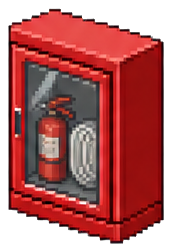
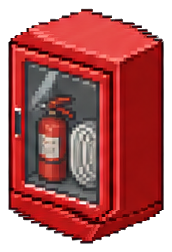
修正手機觸控流程與設施資產方向

Changed region(s): [[0.0581, 0.8333, 0.9593, 0.9722], [0.0291, 0.0278, 0.9593, 0.1667]]

diff --git a/src/ui/components/TouchControls.ts b/src/ui/components/TouchControls.ts
@@ -84,16 +84,28 @@ export class TouchControls {
 
     stick.addEventListener("pointerdown", (event) => {
       event.preventDefault();
+      event.stopPropagation();
       this.options.onUnlockAudio();
       stick.setPointerCapture(event.pointerId);
       stick.classList.add("is-active");
       updateStick(event);
     });
     stick.addEventListener("pointermove", (event) => {
-      if (stick.hasPointerCapture(event.pointerId)) updateStick(event);
+      if (!stick.hasPointerCapture(event.pointerId)) return;
+      event.preventDefault();
+      event.stopPropagation();
+      updateStick(event);
     });
-    stick.addEventListener("pointerup", releaseStick);
-    stick.addEventListener("pointercancel", releaseStick);
+    stick.addEventListener("pointerup", (event) => {
+      event.preventDefault();
+      event.stopPropagation();
+      releaseStick();
+    });
+    stick.addEventListener("pointercancel", (event) => {
+      event.preventDefault();
+      event.stopPropagation();
+      releaseStick();
+    });
     stick.addEventListener("lostpointercapture", releaseStick);
 
     this.options.root
@@ -101,8 +113,17 @@ export class TouchControls {
       .forEach((button) => {
         button.addEventListener("pointerdown", (event) => {
           event.preventDefault();
+          event.stopPropagation();
           this.options.onUnlockAudio();
           if (button.dataset.action) this.options.onAction(button.dataset.action);
+        });
+        button.addEventListener("pointerup", (event) => {
+          event.preventDefault();
+          event.stopPropagation();
+        });
+        button.addEventListener("pointercancel", (event) => {
+          event.preventDefault();
+          event.stopPropagation();
         });
       });
   }

diff --git a/src/player/PlayerMovementController.ts b/src/player/PlayerMovementController.ts
@@ -549,6 +549,13 @@ export class PlayerMovementController {
       this.suppressNextPointerClick = false;
       return;
     }
+    const pointerType =
+      "pointerType" in pointer.event ? String(pointer.event.pointerType) : "mouse";
+    if (pointerType !== "mouse") {
+      this.mouseMovementActive = false;
+      this.suppressNextPointerClick = false;
+      return;
+    }
     const heldDuration = this.scene.time.now - this.mousePointerDownAt;
     const movedDistance = Phaser.Math.Distance.Between(
       this.mousePointerDownX,

diff --git a/src/scenes/CharacterSelectScene.ts b/src/scenes/CharacterSelectScene.ts
@@ -119,6 +119,7 @@ export class CharacterSelectScene extends Phaser.Scene {
     const portrait = this.add
       .sprite(x, 150, texture)
       .setDisplaySize(88, 88)
+      .setInteractive({ useHandCursor: true })
       .play(`${variant}-character-select-walk`);
     if (variant === "male") {
       this.malePortrait = portrait;
@@ -130,14 +131,16 @@ export class CharacterSelectScene extends Phaser.Scene {
       .setTint(0xffffff)
       .setOrigin(0.5);
 
-    card.on("pointerdown", () => {
+    const choose = () => {
       audioManager.unlock();
       if (this.selected === variant) {
         this.confirm();
       } else {
         this.setSelected(variant);
       }
-    });
+    };
+    card.on("pointerdown", choose);
+    portrait.on("pointerdown", choose);
     return card;
   }
 

diff --git a/src/scenes/TitleScene.ts b/src/scenes/TitleScene.ts
@@ -79,6 +79,7 @@ export class TitleScene extends Phaser.Scene {
     startButtonBackground.on("pointerover", () => startButton.setScale(1.04));
     startButtonBackground.on("pointerout", () => startButton.setScale(1));
     startButtonBackground.on("pointerdown", () => this.startGame());
+    this.input.on("pointerdown", this.actionHandler);
     this.tweens.add({
       targets: startButton,
       alpha: 0.72,
@@ -102,6 +103,7 @@ export class TitleScene extends Phaser.Scene {
     window.addEventListener("prototype:action", this.actionHandler);
     this.events.once(Phaser.Scenes.Events.SHUTDOWN, () => {
       document.documentElement.classList.remove("title-screen");
+      this.input.off("pointerdown", this.actionHandler);
       this.input.keyboard?.off("keydown-ENTER", this.actionHandler);
       this.input.keyboard?.off("keydown-SPACE", this.actionHandler);
       window.removeEventListener("prototype:action", this.actionHandler);

diff --git a/src/styles.css b/src/styles.css
@@ -1106,6 +1106,7 @@ html.portrait-touch-layout #app {
 html.title-screen .touch-controls,
 html.character-select-screen .touch-controls {
   display: none;
+  pointer-events: none;
 }
 
 html.title-screen .touch-controls {